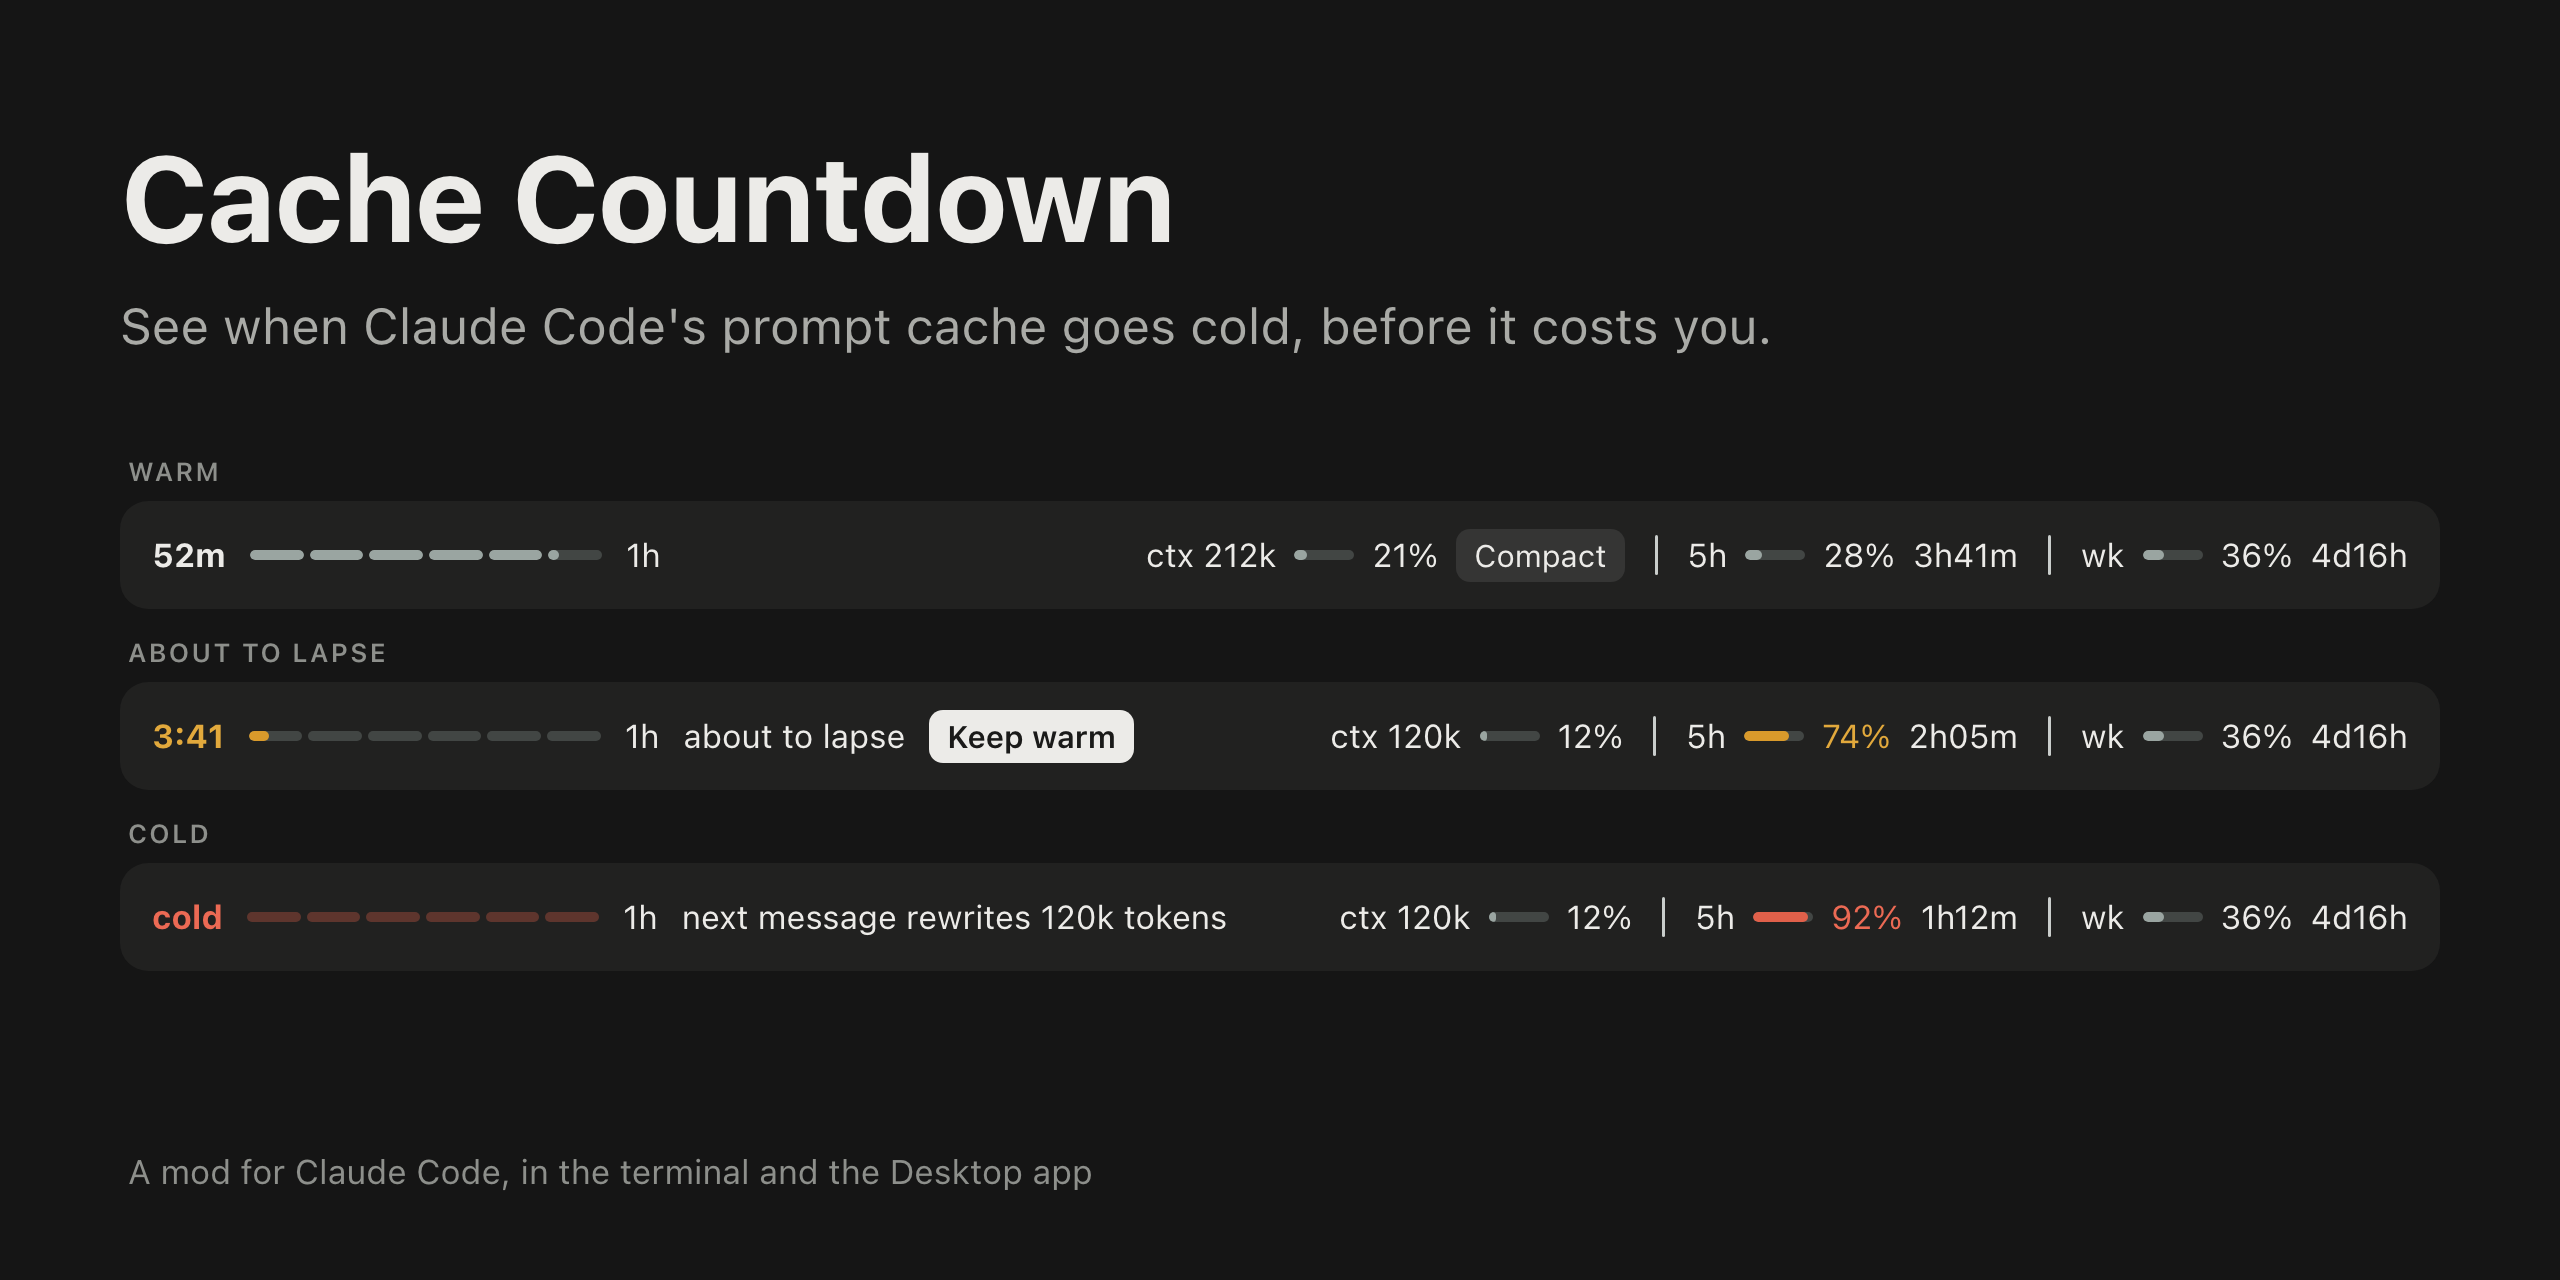
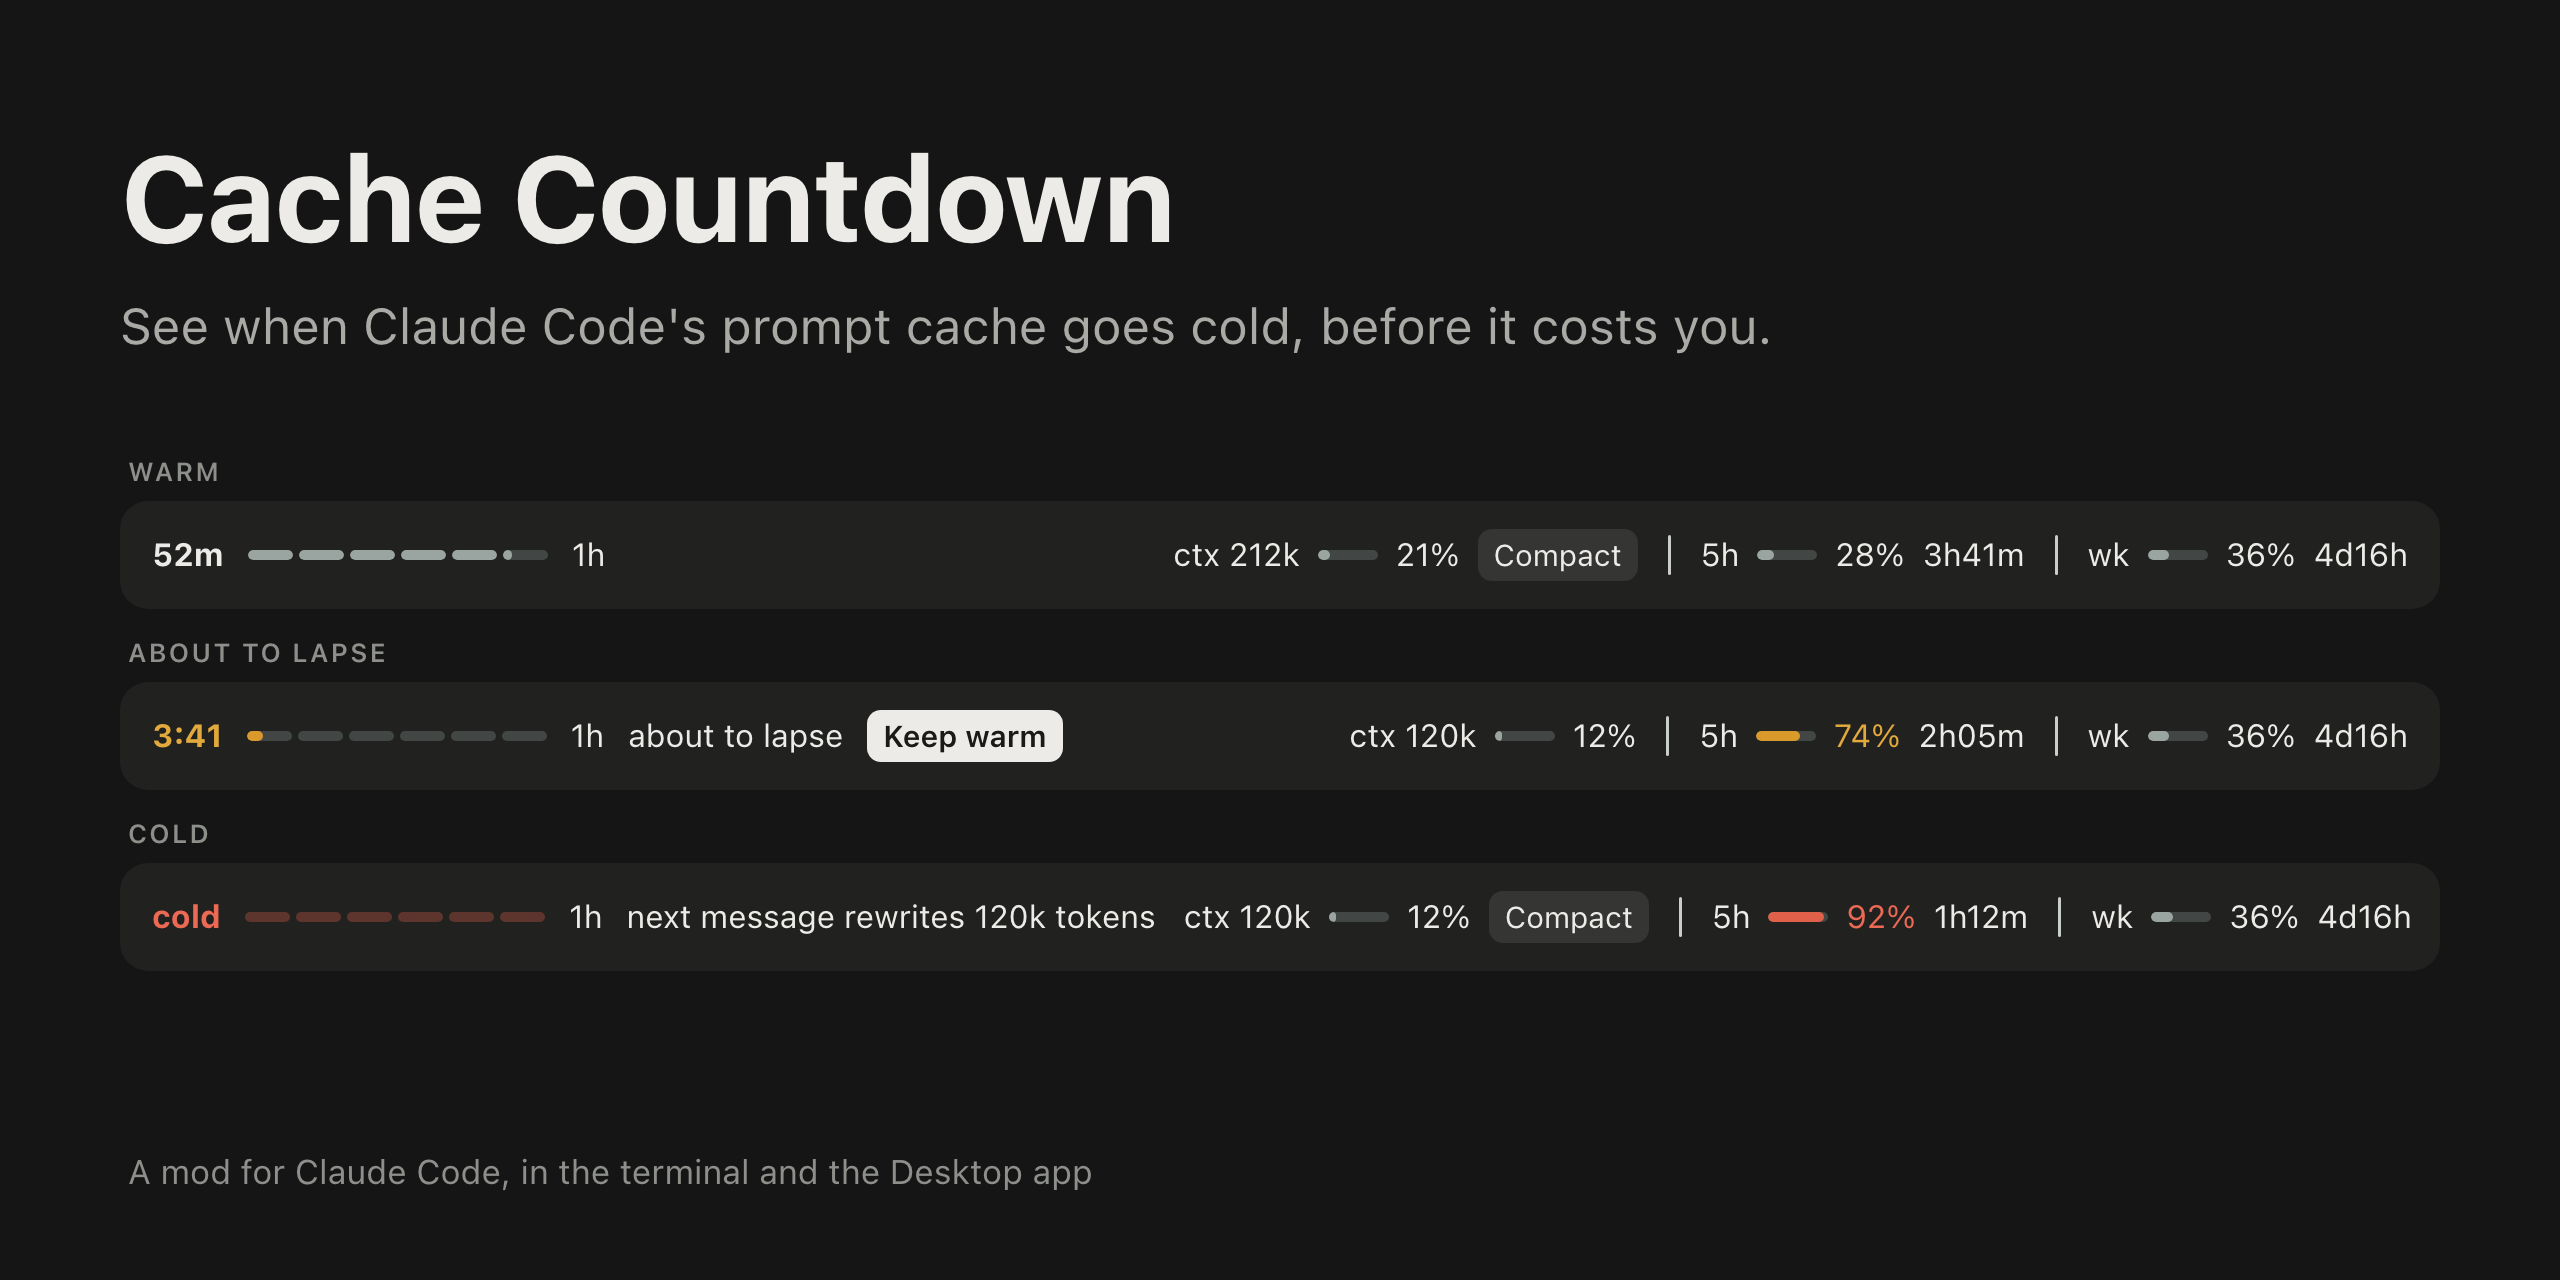
Show Compact once the cache is cold
A cold cache means the next message writes the whole context again, so
that is the moment compacting is most worth offering. Compact now also
appears whenever the cache is cold and the conversation holds 20k tokens
or more, in addition to past 200k tokens of context.

The README says what this does and does not save: compacting a cold
conversation still reads the context once. The thumbnail's cold row
shows the button.

diff --git a/hooks/register.tsx b/hooks/register.tsx
@@ -82,7 +82,7 @@ const TERMINAL_CELLS = 24
 const TAIL_BYTES = 400_000
 const EXPIRY_TOAST_WINDOW_MS = 10_000
 const REBUILD_MIN_TOKENS = 10_000
-const TOAST_MIN_TOKENS = 20_000
+const WORTH_ACTING_TOKENS = 20_000
 const COMPACT_MIN_TOKENS = 200_000
 const KEEP_WARM_PROMPT = 'Reply with the single word: ok'
 const NO_GAUGES: Gauges = { tokens: null, meters: [] }
@@ -493,7 +493,7 @@ async function tick(
     $.ui.invalidate('ui.render')
   }
 
-  const isWorthIt = held.tokens === null || held.tokens >= TOAST_MIN_TOKENS
+  const isWorthIt = held.tokens === null || held.tokens >= WORTH_ACTING_TOKENS
 
   if (isToasting && view.isKnown && isWorthIt && flying === 0) {
     announce($, view)
@@ -511,12 +511,15 @@ async function sceneOf($: EngineInterface, forced: CacheTier | null): Promise<Sc
   const now = await $.clock.now()
   const view = last === null ? null : viewOf(last, forced, await read($, tiers), held.tokens, now)
 
+  const tokens = held.tokens ?? 0
+  const isColdAndLarge = view !== null && view.phase === 'cold' && tokens >= WORTH_ACTING_TOKENS
+
   return {
     view,
     meters: held.meters.map(meter => meterViewOf(meter, now)),
     busy: await read($, busy),
     canWarm: view !== null && view.phase === 'soon',
-    canCompact: held.tokens !== null && held.tokens > COMPACT_MIN_TOKENS,
+    canCompact: tokens > COMPACT_MIN_TOKENS || isColdAndLarge,
   }
 }
 

diff --git a/tests/cache-countdown.test.ts b/tests/cache-countdown.test.ts
@@ -402,3 +402,28 @@ test('keeps what other mods draw in the band', { options: { ttl: '5m' } }, async
     await ui.unmount()
   }
 })
+
+test('Compact also appears once the cache is cold', { options: { ttl: '5m' } }, async ($, on) => {
+  const clock = mock.clock(on, { now: START })
+  answerBand(on)
+  answerSteps(on, CACHED)
+  on('session.measure', (_$, e) => ({ changed: e.changed }))
+  await $.session.measure({
+    context: { tokens: 120_000, window: 1_000_000, percent: 12 },
+    rateLimits: [],
+    changed: ['context'],
+  })
+  await step($)
+
+  const warm = await $.ui.mount({ ...BAND, surface: 'desktop' })
+  expect(await warm.find({ type: 'Button', key: 'compact' })).toBeUndefined()
+  await warm.unmount()
+
+  await clock.advance(301_000)
+  for (const surface of SURFACES) {
+    const cold = await $.ui.mount({ ...BAND, surface })
+    expect(await cold.find({ type: 'Text', text: /^cold$/ })).toBeDefined()
+    expect(await cold.find({ type: 'Button', key: 'compact' })).toBeDefined()
+    await cold.unmount()
+  }
+})

diff --git a/README.md b/README.md
@@ -67,7 +67,7 @@ If another mod draws above the prompt too, its row stays, under this one.
 ## Buttons
 
 - **Keep warm** appears while the cache is about to lapse. It asks the model one short question over the conversation as it was last sent, which reads the cache and restarts its lifetime. That request is real usage: the whole context at the cache-read price. A toast says how many tokens were read. If the request wrote the context again instead of reading it, the toast says so and the countdown stays as it was.
-- **Compact** appears beside the context meter once the conversation holds more than 200k tokens. It compacts the conversation, as `/compact` does, with no confirmation step.
+- **Compact** appears beside the context meter once the conversation holds more than 200k tokens, and whenever the cache is cold and the conversation holds 20k tokens or more. It compacts the conversation, as `/compact` does, with no confirmation step. Compacting a cold conversation still reads the whole context once, as any next message would; what it saves is carrying that context into every message after.
 
 ## Options
 
